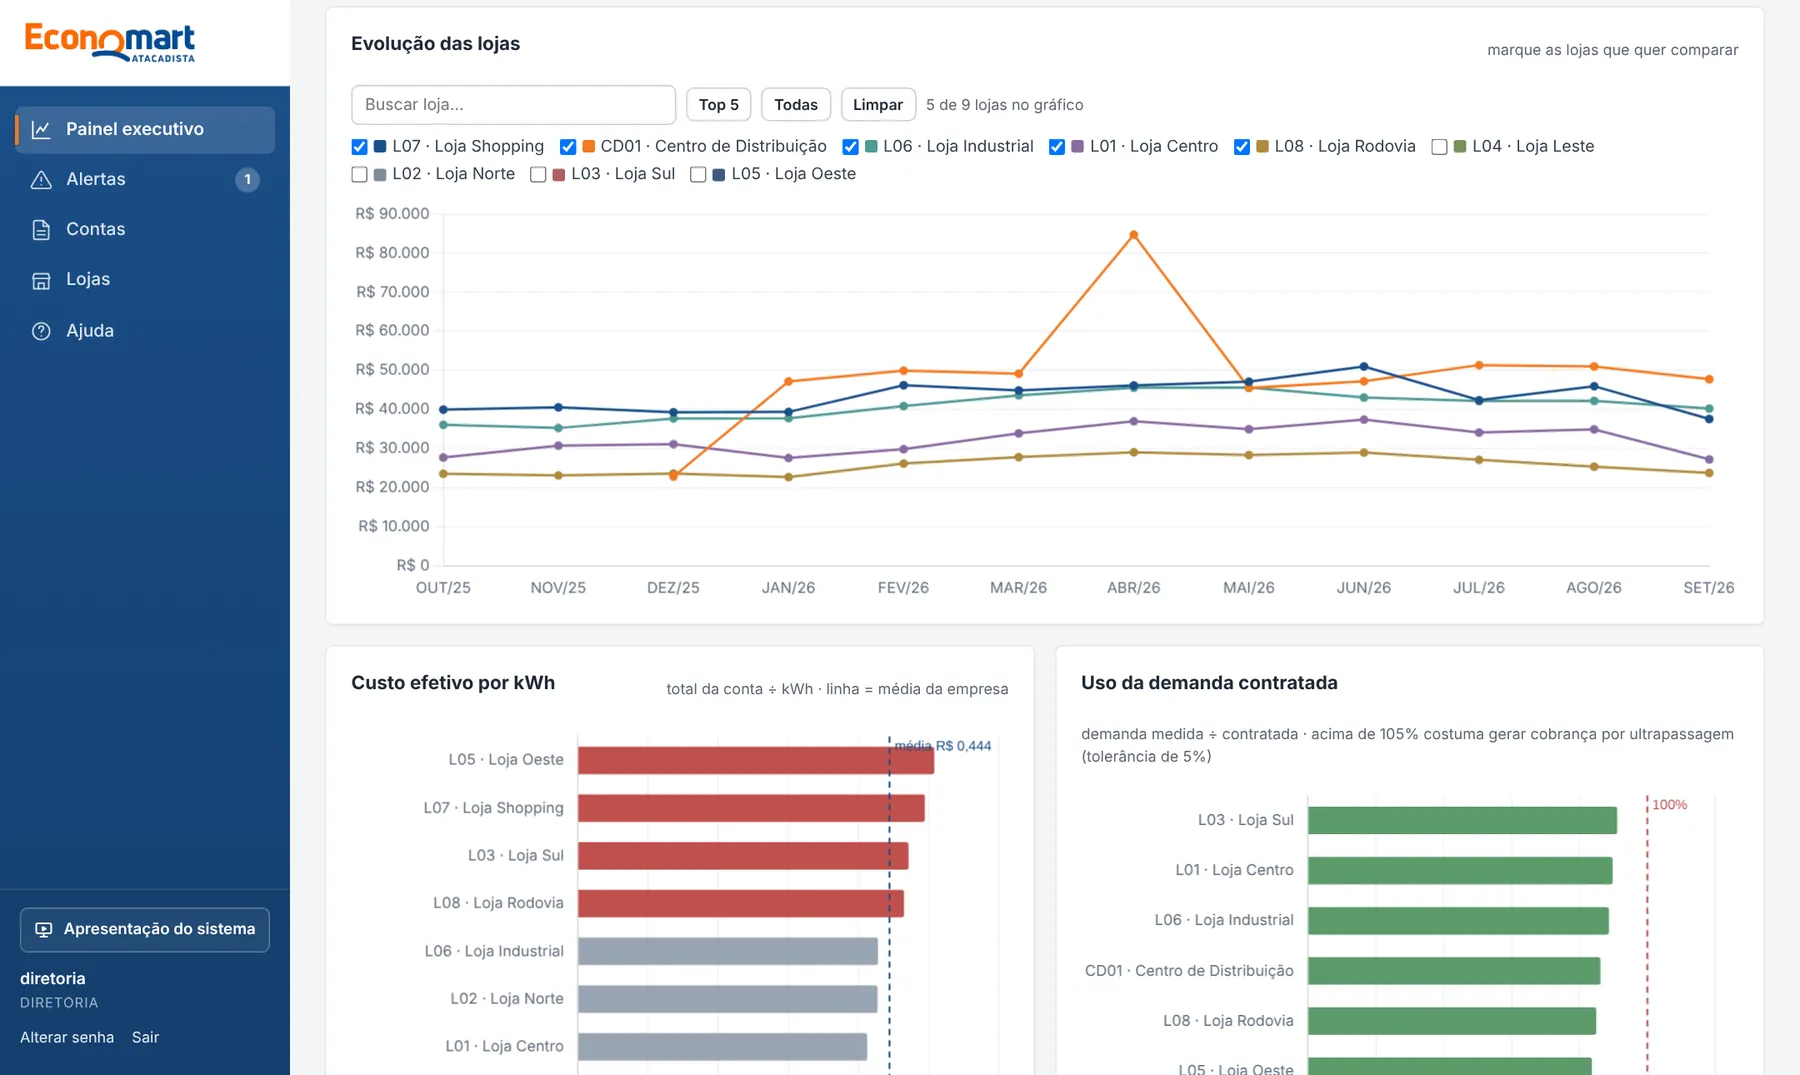
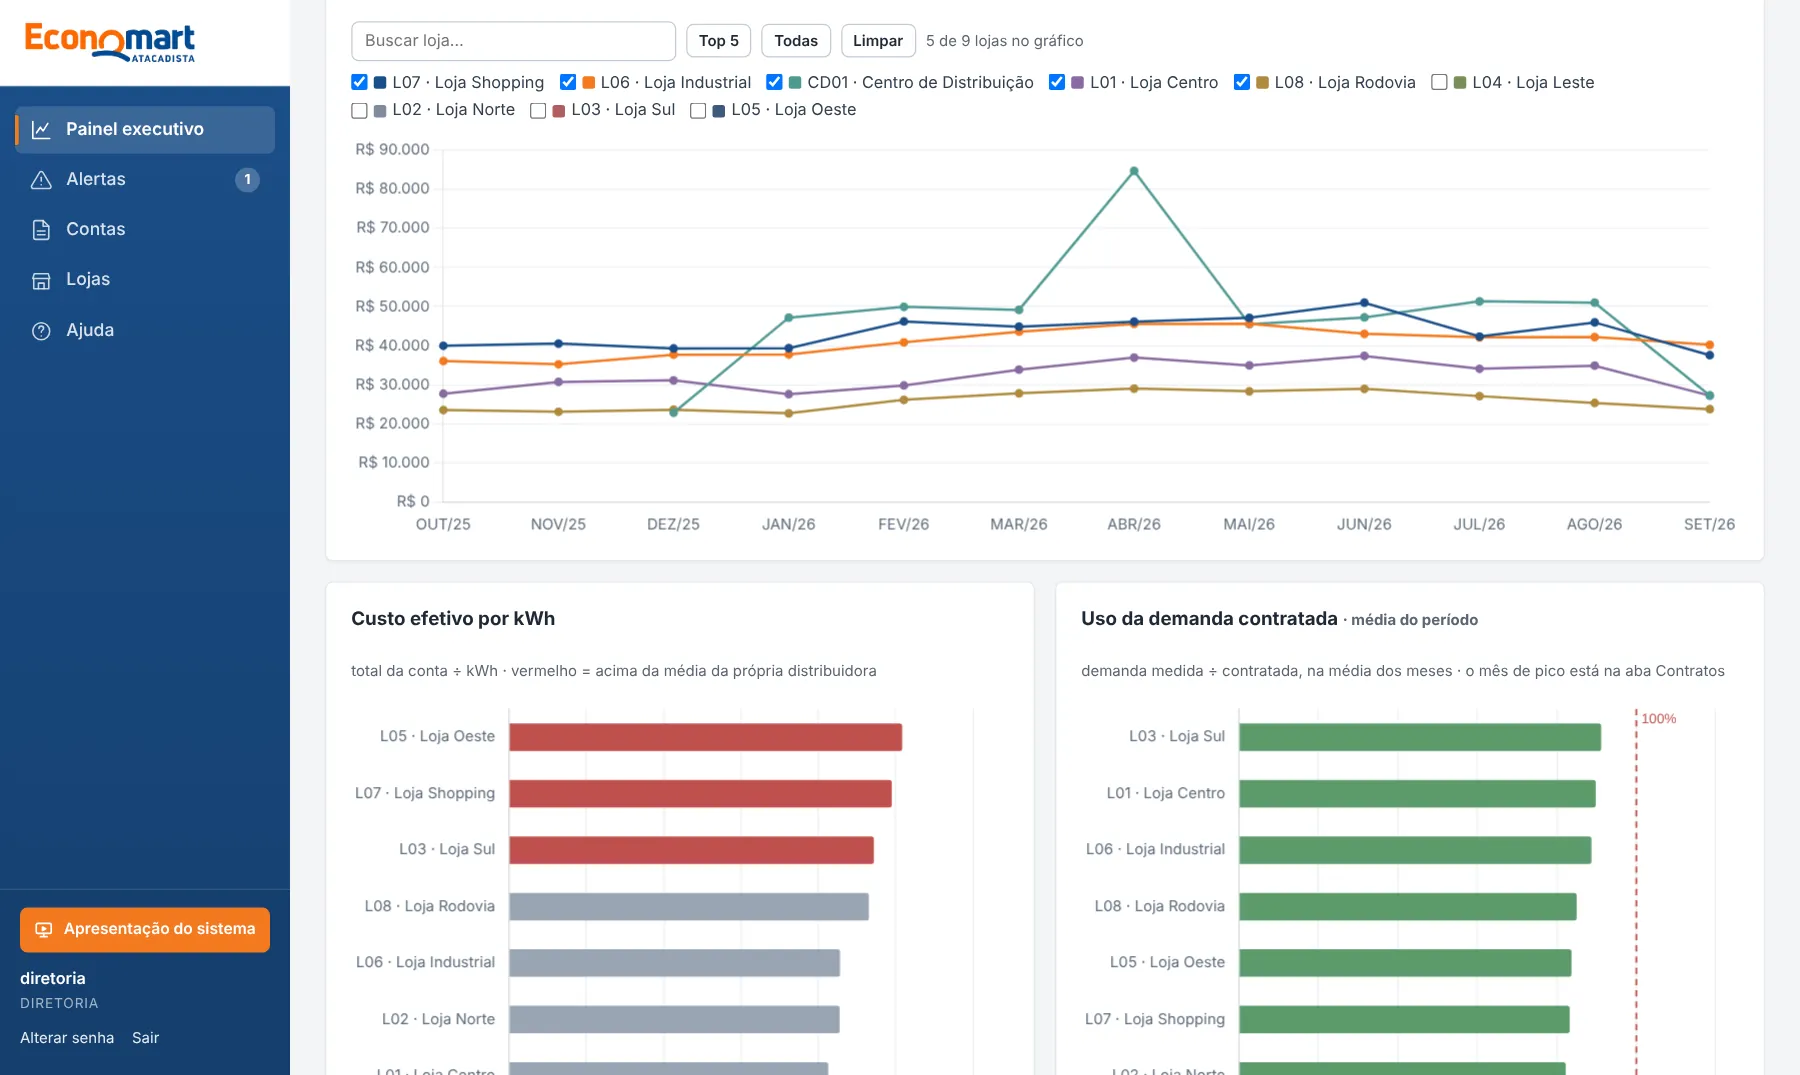
Apresentação do sistema: painel em abas, Gasto evitável, Contratos, Ano e Desfazer
- Novas capturas (Visão geral, Lojas) e 4 slides novos; Gasto evitável entra no resumo
- Números e cartões de segurança atualizados (aviso de sessão, lixeira, exclusão em massa)

Claude-Session: https://claude.ai/code/session_01SRoDpaq7ygoXKN5TQqH2rN

diff --git a/app/templates/presentation.html b/app/templates/presentation.html
@@ -110,7 +110,7 @@
         <div class="stats">
           <div class="stat rv" style="--i:2"><b data-count="8">8</b><span>tipos de conta e de lançamento</span></div>
           <div class="stat rv" style="--i:3"><b data-count="4">4</b><span>perfis de acesso</span></div>
-          <div class="stat rv" style="--i:4"><b data-count="2">2</b><span>formatos de impressão do painel: A4 e A3</span></div>
+          <div class="stat rv" style="--i:4"><b data-count="5">5</b><span>abas no painel da diretoria</span></div>
           <div class="stat rv" style="--i:5"><b data-count="3">3</b><span>jeitos de levar o painel: papel, planilha e PowerPoint</span></div>
           <div class="stat rv" style="--i:6"><b data-count="1">1</b><span>conferência antes de qualquer conta ser salva</span></div>
         </div>
@@ -194,6 +194,12 @@
       {{ dev('func-contas', 'Lista de contas e lançamentos com campo de busca', 'Contas e lançamentos') }}
     </section>
 
+    <section class="slide s-split" data-chapter="func" aria-label="Desfazer exclusão">
+      <div class="copy"><p class="eyebrow rv" style="--i:0">Funcionário · lixeira</p>{{ lines(['Excluiu errado?', '<em>Desfazer</em>']) }}
+        <ul class="rv" style="--i:2"><li>Logo depois de excluir aparece o botão <b>Desfazer</b>.</li><li>Viu depois? Na <b>Lixeira</b>, o que você excluiu fica 30 dias, com a foto da conta.</li><li>Sem depender de ninguém: restaurar volta tudo como estava.</li></ul></div>
+      {{ dev('func-desfazer', 'Aviso de conta excluída com o botão Desfazer', 'Conta excluída · Desfazer', [{'x':85,'y':10,'t':'Desfazer na hora','side':'l'}]) }}
+    </section>
+
     <section class="slide s-split rev" data-chapter="func" aria-label="Alertas">
       <div class="copy"><p class="eyebrow rv" style="--i:0">Funcionário · alertas</p>{{ lines(['O sistema', 'avisa <em>antes</em>']) }}
         <ul class="rv" style="--i:2"><li>Conta fora do padrão da própria unidade.</li><li>Demanda acima da contratada, com tolerância de 5%.</li><li>Nota repetida e vencimentos do dia.</li><li>É um aviso para conferir, não um veredito.</li></ul></div>
@@ -212,25 +218,43 @@
 
     <section class="slide s-split" data-chapter="dir" data-sum aria-label="Painel executivo">
       <div class="copy"><p class="eyebrow rv" style="--i:0">Diretoria · painel</p>{{ lines(['Tudo o que importa,', 'em <em>frases</em>']) }}
-        <ul class="rv" style="--i:2"><li>O que subiu, o que caiu e quem foge do padrão.</li><li>Total do período, último mês, custo por kWh e pendências.</li><li>Filtro por período e por região.</li></ul></div>
-      {{ dev('dir-painel', 'Painel executivo com destaques e indicadores', 'Painel executivo', [{'x':52,'y':30,'t':'Resumo em frases','side':'l'},{'x':30,'y':74,'t':'Indicadores do mês','side':'r'},{'x':91,'y':21,'t':'Imprime em A4 ou A3','side':'l'}]) }}
+        <ul class="rv" style="--i:2"><li>O que subiu, o que caiu e por quê: consumo ou custo por kWh.</li><li>Cinco abas: Visão geral, Lojas, Gasto evitável, Contratos e Ano.</li><li>Filtro por período e por região, valendo para todas.</li></ul></div>
+      {{ dev('dir-painel', 'Painel executivo com abas, destaques e indicadores', 'Painel executivo', [{'x':30,'y':26,'t':'Cinco abas','side':'r'},{'x':56,'y':42,'t':'Resumo em frases','side':'l'},{'x':91,'y':14,'t':'Imprime em A4 ou A3','side':'l'}]) }}
     </section>
 
     <section class="slide s-split rev" data-chapter="dir" aria-label="Gráficos">
-      <div class="copy"><p class="eyebrow rv" style="--i:0">Diretoria · gráficos</p>{{ lines(['Comparar lojas', 'num <em>relance</em>']) }}
-        <ul class="rv" style="--i:2"><li>Gasto por mês e por fornecedor.</li><li>Ranking de lojas e variação contra o mês anterior.</li><li>Composição do gasto de cada loja.</li><li>Cada barra traz o código e o nome da loja.</li></ul></div>
-      {{ dev('dir-graficos', 'Gráficos de gasto por mês, ranking e variação', 'Painel executivo · gráficos') }}
+      <div class="copy"><p class="eyebrow rv" style="--i:0">Diretoria · aba Lojas</p>{{ lines(['Comparar lojas', 'num <em>relance</em>']) }}
+        <ul class="rv" style="--i:2"><li>Variação de cada loja contra o mês anterior.</li><li>Composição do gasto por fornecedor.</li><li>Clique na barra e a loja abre.</li><li>Cada barra traz o código e o nome da loja.</li></ul></div>
+      {{ dev('dir-graficos', 'Aba Lojas: variação e composição do gasto por loja', 'Painel executivo · Lojas') }}
     </section>
 
     <section class="slide s-split" data-chapter="dir" aria-label="Evolução e comparação">
       <div class="copy"><p class="eyebrow rv" style="--i:0">Diretoria · evolução</p>{{ lines(['Evolução', 'e <em>demanda</em>']) }}
-        <ul class="rv" style="--i:2"><li>Marque as lojas que quer ver na linha do tempo.</li><li>Custo efetivo por kWh contra a média da empresa.</li><li>Uso da demanda contratada, loja a loja.</li><li>Mapa de calor e comparação entre duas lojas.</li></ul></div>
+        <ul class="rv" style="--i:2"><li>Marque as lojas que quer ver na linha do tempo.</li><li>Custo por kWh contra a média da <b>mesma distribuidora</b> (CEMIG, COELBA e Energisa têm tarifas diferentes).</li><li>Uso médio da demanda contratada.</li><li>Mapa de calor e comparação entre duas lojas.</li></ul></div>
       {{ dev('dir-graficos-2', 'Evolução das lojas e outros gráficos do painel', 'Painel executivo · evolução') }}
+    </section>
+
+    <section class="slide s-split rev" data-chapter="dir" data-sum aria-label="Gasto evitável">
+      <div class="copy"><p class="eyebrow rv" style="--i:0">Diretoria · gasto evitável</p>{{ lines(['O que se paga', '<em>à toa</em>']) }}
+        <ul class="rv" style="--i:2"><li>Ultrapassagem de demanda, energia reativa excedente, juros e multa por atraso.</li><li>Somados direto dos itens de cada fatura.</li><li>Por loja, por mês e os maiores itens, com a conta a um clique.</li></ul></div>
+      {{ dev('dir-evitavel', 'Aba Gasto evitável com o total por tipo e por mês', 'Painel executivo · Gasto evitável', [{'x':22,'y':40,'t':'Total evitável no período','side':'r'},{'x':55,'y':66,'t':'Mês a mês, por tipo','side':'l'}]) }}
+    </section>
+
+    <section class="slide s-split" data-chapter="dir" aria-label="Contratos">
+      <div class="copy"><p class="eyebrow rv" style="--i:0">Diretoria · contratos</p>{{ lines(['A demanda', 'está <em>certa</em>?']) }}
+        <ul class="rv" style="--i:2"><li>Contratada contra a maior demanda medida em 12 meses.</li><li>Quem passou do limite: avaliar aumento.</li><li>Quem usa menos de 80%: avaliar redução.</li><li>Com pouco histórico, o sistema avisa em vez de recomendar.</li></ul></div>
+      {{ dev('dir-contratos', 'Aba Contratos com a situação da demanda de cada unidade', 'Painel executivo · Contratos') }}
+    </section>
+
+    <section class="slide s-split rev" data-chapter="dir" aria-label="Ano">
+      <div class="copy"><p class="eyebrow rv" style="--i:0">Diretoria · ano</p>{{ lines(['Por que o gasto', '<em>mudou</em>?']) }}
+        <ul class="rv" style="--i:2"><li>Quanto da variação veio do consumo e quanto do custo por kWh.</li><li>Acumulado do ano mês a mês.</li><li>Comparação com o ano anterior e projeção de fechamento aparecem sozinhas com 12 meses de contas.</li></ul></div>
+      {{ dev('dir-ano', 'Aba Ano com o acumulado, a projeção e a explicação da variação', 'Painel executivo · Ano') }}
     </section>
 
     <section class="slide s-split rev" data-chapter="dir" aria-label="Impressão">
       <div class="copy"><p class="eyebrow rv" style="--i:0">Diretoria · impressão</p>{{ lines(['A4 ou A3,', 'você <em>escolhe</em>']) }}
-        <ul class="rv" style="--i:2"><li>No botão <b>Imprimir painel</b>, escolha o papel.</li><li><b>A4:</b> várias páginas, uma ideia por página.</li><li><b>A3:</b> o painel inteiro numa folha, na horizontal.</li></ul></div>
+        <ul class="rv" style="--i:2"><li>No botão <b>Imprimir painel</b>, escolha o papel.</li><li><b>A4:</b> várias páginas, uma ideia por página.</li><li><b>A3:</b> o painel inteiro numa folha, na horizontal.</li><li>Gasto evitável, Contratos e Ano têm o próprio botão de imprimir.</li></ul></div>
       {{ dev('dir-imprimir', 'Menu de impressão do painel com as opções A4 e A3', 'Imprimir painel') }}
     </section>
 
@@ -265,9 +289,9 @@
         {{ lines(['Pensado para os dados', 'da <em>empresa</em>']) }}
         <div class="cards">
           <article class="rv" style="--i:2"><span class="ci"><svg width="26" height="26" viewBox="0 0 24 24" fill="none" stroke="currentColor" stroke-width="1.8" stroke-linecap="round" stroke-linejoin="round"><circle cx="9" cy="8" r="3.5"/><path d="M2.5 20a6.5 6.5 0 0 1 13 0M17 11l2 2 3-4"/></svg></span><h3>Acesso por perfil</h3><p>Cada pessoa vê e faz só o que o seu perfil permite.</p></article>
-          <article class="rv" style="--i:3"><span class="ci"><svg width="26" height="26" viewBox="0 0 24 24" fill="none" stroke="currentColor" stroke-width="1.8" stroke-linecap="round" stroke-linejoin="round"><rect x="4" y="10" width="16" height="11" rx="2"/><path d="M8 10V7a4 4 0 0 1 8 0v3"/></svg></span><h3>Login protegido</h3><p>Bloqueio após tentativas erradas e sessão que expira por inatividade.</p></article>
+          <article class="rv" style="--i:3"><span class="ci"><svg width="26" height="26" viewBox="0 0 24 24" fill="none" stroke="currentColor" stroke-width="1.8" stroke-linecap="round" stroke-linejoin="round"><rect x="4" y="10" width="16" height="11" rx="2"/><path d="M8 10V7a4 4 0 0 1 8 0v3"/></svg></span><h3>Login protegido</h3><p>Bloqueio após tentativas erradas; a sessão expira por inatividade, com aviso 5 minutos antes.</p></article>
           <article class="rv" style="--i:4"><span class="ci"><svg width="26" height="26" viewBox="0 0 24 24" fill="none" stroke="currentColor" stroke-width="1.8" stroke-linecap="round" stroke-linejoin="round"><path d="M12 3 4 6v6c0 4.5 3.2 8 8 9 4.8-1 8-4.5 8-9V6z"/><path d="m9 12 2 2 4-4"/></svg></span><h3>Arquivos cifrados</h3><p>As imagens das contas ficam cifradas e saem do banco após 6 meses; os dados lidos permanecem.</p></article>
-          <article class="rv" style="--i:5"><span class="ci"><svg width="26" height="26" viewBox="0 0 24 24" fill="none" stroke="currentColor" stroke-width="1.8" stroke-linecap="round" stroke-linejoin="round"><path d="M14 3H6a2 2 0 0 0-2 2v14a2 2 0 0 0 2 2h12a2 2 0 0 0 2-2V9z"/><path d="M14 3v6h6M8 13h8M8 17h5"/></svg></span><h3>Histórico de tudo</h3><p>Trilha de auditoria de quem fez o quê, com selo contra adulteração.</p></article>
+          <article class="rv" style="--i:5"><span class="ci"><svg width="26" height="26" viewBox="0 0 24 24" fill="none" stroke="currentColor" stroke-width="1.8" stroke-linecap="round" stroke-linejoin="round"><path d="M14 3H6a2 2 0 0 0-2 2v14a2 2 0 0 0 2 2h12a2 2 0 0 0 2-2V9z"/><path d="M14 3v6h6M8 13h8M8 17h5"/></svg></span><h3>Nada se perde</h3><p>Auditoria de quem fez o quê, com selo contra adulteração. O que é excluído vai para a lixeira; exclusão em massa é barrada.</p></article>
           <article class="rv" style="--i:6"><span class="ci"><svg width="26" height="26" viewBox="0 0 24 24" fill="none" stroke="currentColor" stroke-width="1.8" stroke-linecap="round" stroke-linejoin="round"><rect x="7" y="2" width="10" height="20" rx="2"/><path d="M11 18h2"/></svg></span><h3>Duas etapas</h3><p>{% if require_2fa %}Verificação em duas etapas obrigatória para os administradores.{% else %}Verificação em duas etapas disponível para os administradores.{% endif %}</p></article>
           <article class="rv" style="--i:7"><span class="ci"><svg width="26" height="26" viewBox="0 0 24 24" fill="none" stroke="currentColor" stroke-width="1.8" stroke-linecap="round" stroke-linejoin="round"><path d="M2 12s4-7 10-7 10 7 10 7-4 7-10 7S2 12 2 12z"/><circle cx="12" cy="12" r="3"/></svg></span><h3>Conferência humana</h3><p>A leitura automática nunca salva sozinha: o funcionário confere.</p></article>
         </div>

diff --git a/tests/test_presentation.py b/tests/test_presentation.py
@@ -100,7 +100,7 @@ def test_claims_in_the_slides_are_precise(client, until):
 def test_summary_mode_has_eight_slides_and_a_toggle(client, until):
     until("2999-01-01T00:00:00-03:00")
     html = client.get("/apresentacao").text
-    assert html.count('<section class="slide') >= 25 and len(re.findall(r'<section class="slide[^>]*data-sum', html)) == 8
+    assert html.count('<section class="slide') >= 25 and len(re.findall(r'<section class="slide[^>]*data-sum', html)) == 9
     assert 'id="mode"' in html and 'role="tab"' not in html and 'role="tablist"' not in html          # sem papéis ARIA incompletos
     assert '<div class="deck" id="deck" aria-hidden' not in html                                       # o deck não é escondido de leitores de tela
     js = open("app/static/js/presentation.js", encoding="utf-8").read()

diff --git a/CHANGELOG.md b/CHANGELOG.md
@@ -5,6 +5,8 @@ Histórico do sistema, do mais novo para o mais antigo, agrupado por dia. Cada i
 
 ## 2026-10-15
 
+- **Apresentação do sistema atualizada (27 → 31 slides).** Novas capturas do Painel executivo em abas (Visão geral e Lojas) e slides novos: **Gasto evitável** (entra também na versão resumida, agora com 9 slides), **Contratos**, **Ano / por que o gasto mudou** e, no capítulo do funcionário, **Excluiu errado? Desfazer** (botão Desfazer e Lixeira de 30 dias). Em números, "5 abas no painel da diretoria" no lugar dos formatos de impressão; em Segurança, aviso antes de a sessão expirar e o cartão "Nada se perde" (auditoria, lixeira e barreira contra exclusão em massa).
+
 - **Painel executivo em abas, com três telas novas.** Pesquisa de mercado (EnergyCAP, IBM Envizi, Arcadia, Schneider Resource Advisor, Enel X/Via Varejo): os sistemas separam a visão do diretor por assunto, mostram o gasto evitável em R$ e só projetam o ano com 12 meses de histórico. O painel virou cinco abas, com os mesmos filtros:
   - **Visão geral** (destaques, indicadores, gasto mensal, ranking, pendências) e **Lojas** (variação, composição, evolução, custo por kWh, demanda média, comparar duas lojas, mapa de calor, comparativo) — o que já existia, separado. O custo por kWh de cada loja agora é comparado com a média da **própria distribuidora** (tarifas de CEMIG, COELBA e Energisa são diferentes).
   - **Gasto evitável:** soma, pelos itens da fatura, ultrapassagem de demanda, energia reativa excedente (inclusive as abreviações da COELBA, como "Cons.Real.Exc.") e juros/multa por atraso; por loja, por mês e os maiores itens com link para a conta. Diz em quantas contas se baseia (contas lançadas à mão não têm itens).
